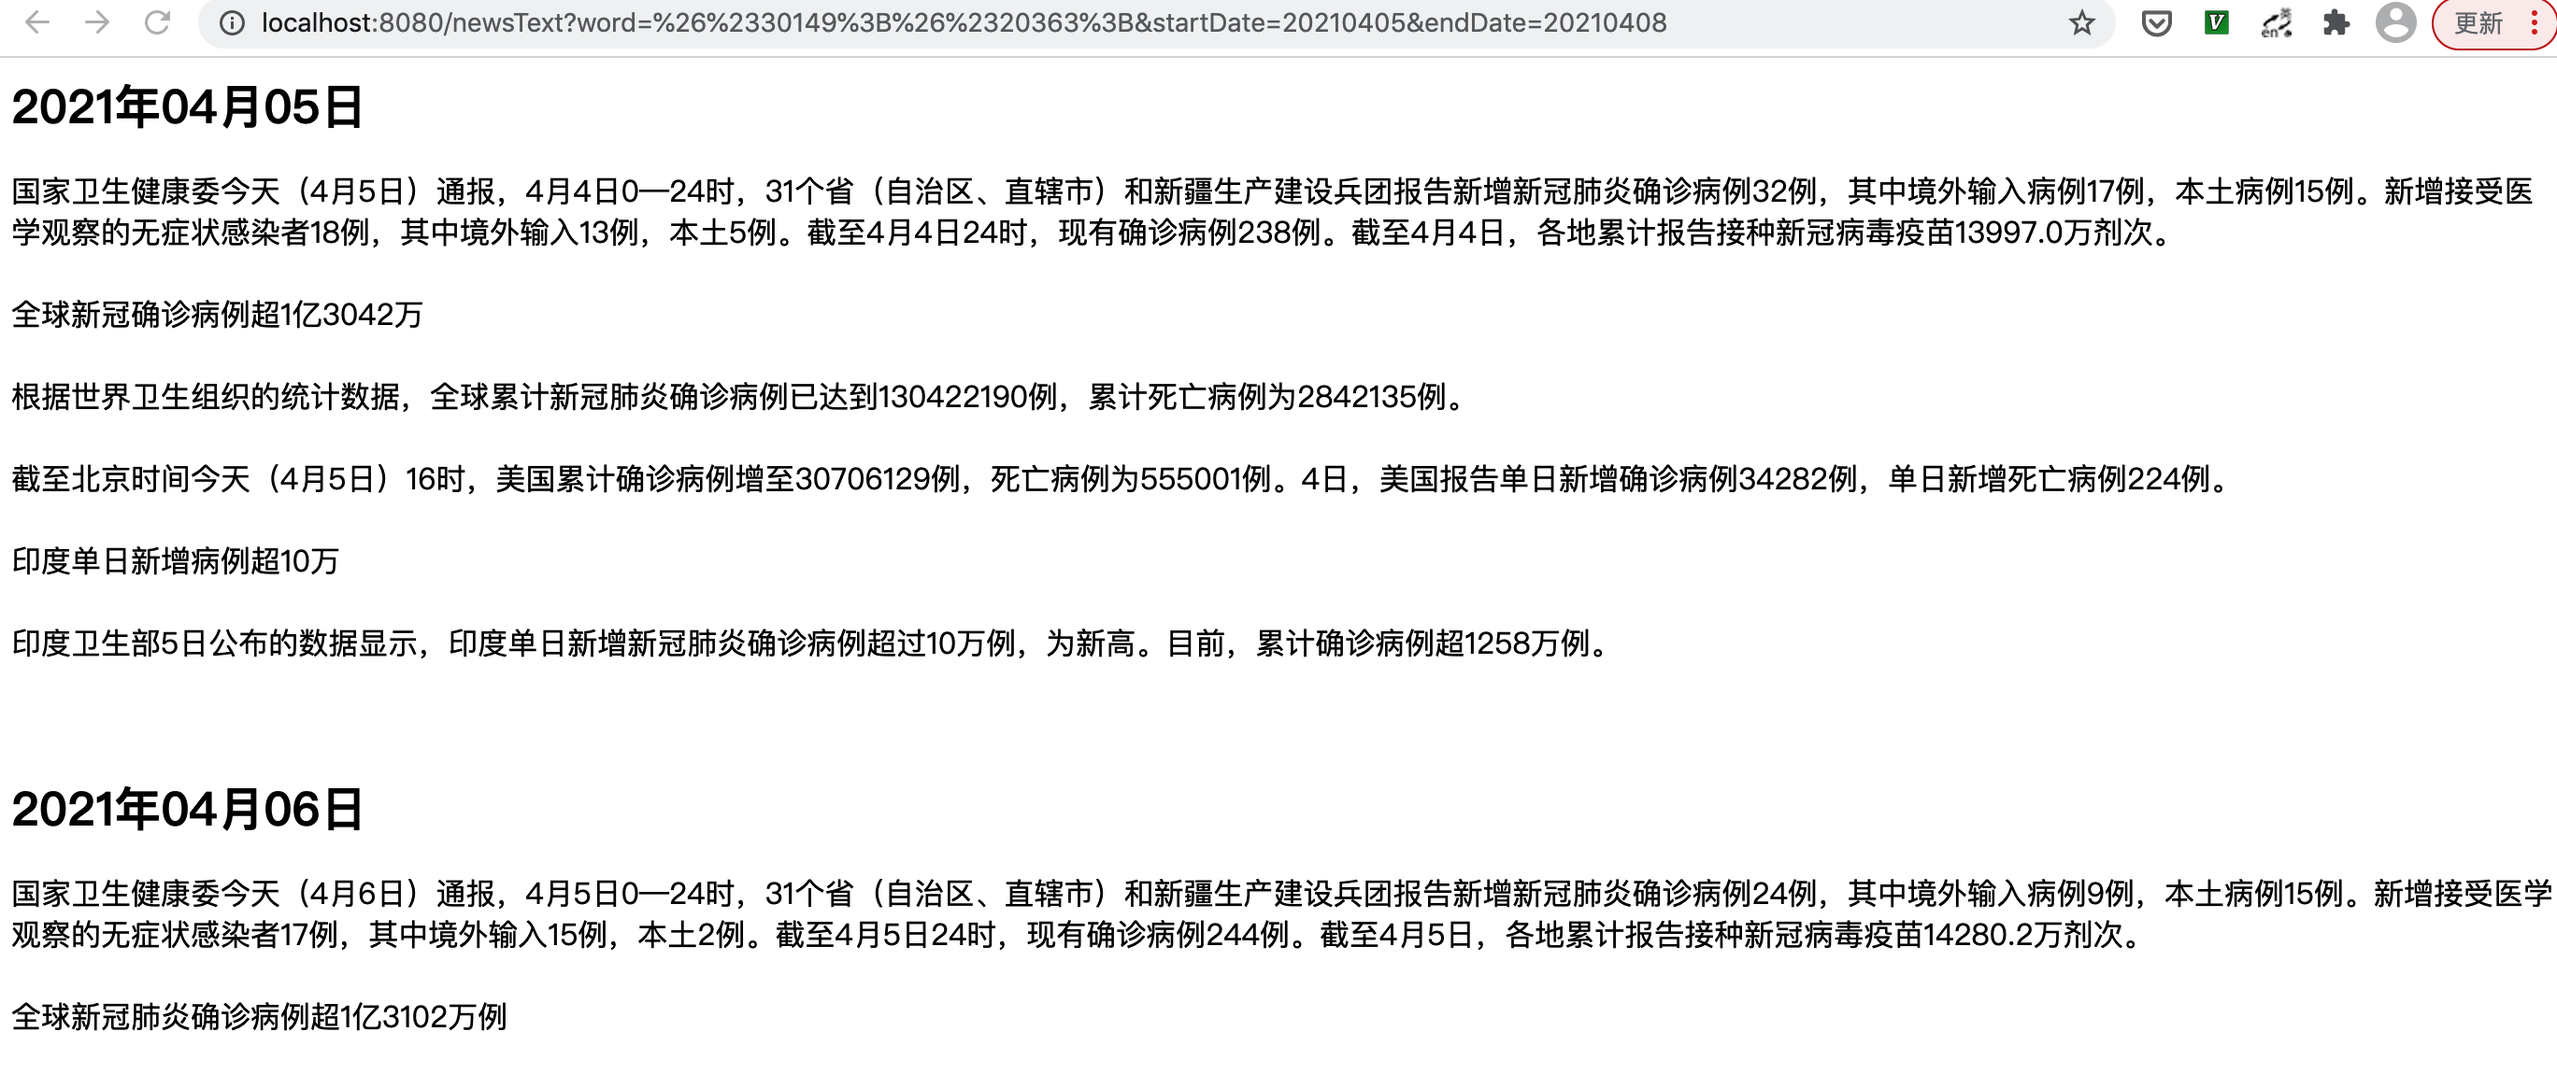
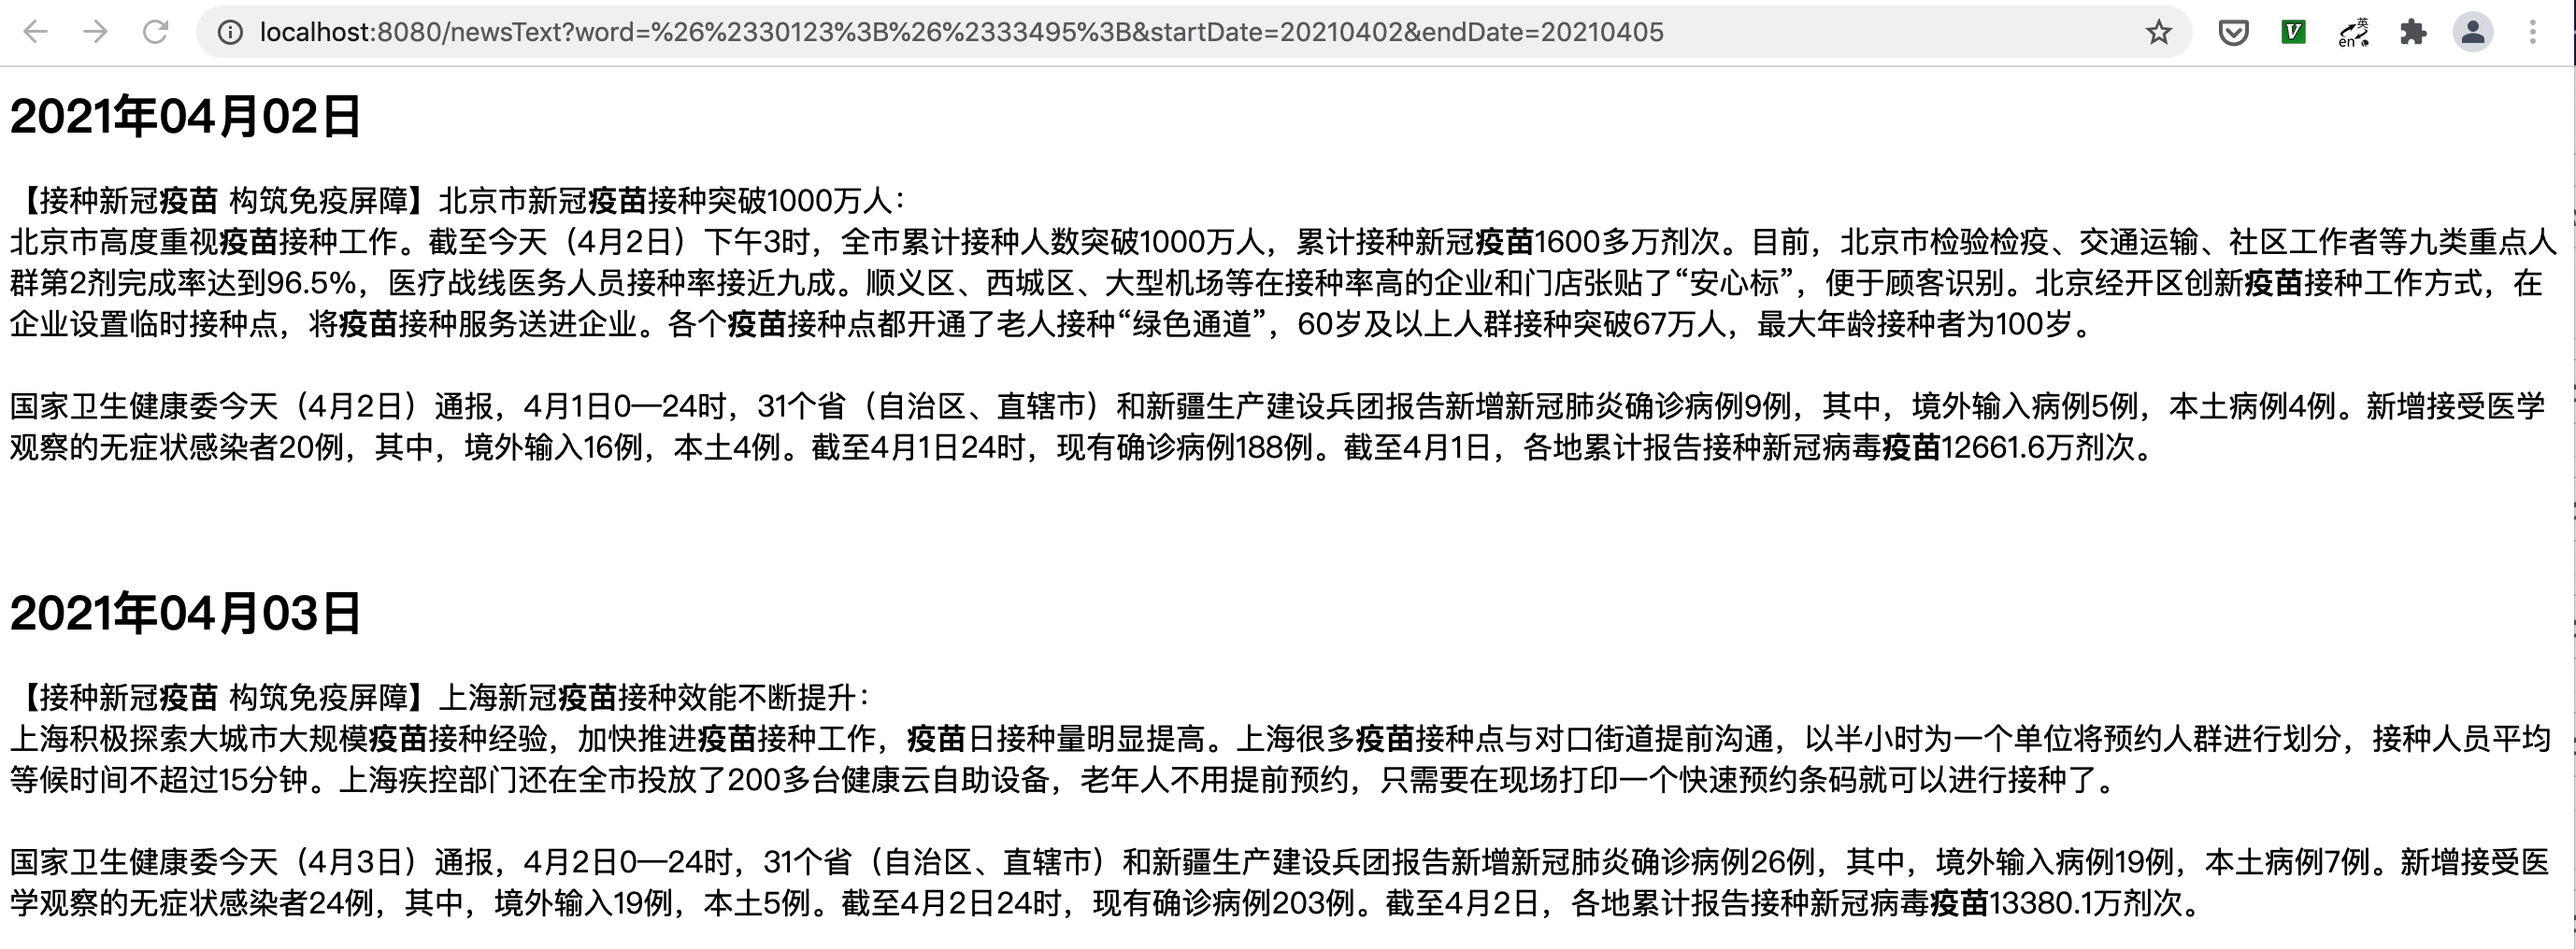
优化展示

Changed region(s): [[0.0, 0.0, 1.0, 1.0], [0.0, 0.5797, 0.6213, 0.6713]]

diff --git a/xwlb-api/src/main/resources/static/pages/news_text.html b/xwlb-api/src/main/resources/static/pages/news_text.html
@@ -1,18 +1,21 @@
-<html>
+<html lang="zh-CN">
 <script src="../js/send-request.js" charset="UTF-8"></script>
 <div id="box"></div>
 
 <script type="text/javascript">
     sent_request_sync("/news/text?" + window.location.search.substring(1), "GET", render)
     function render(data) {
-        for (let i in data) {
+        for (let d of data) {
             const box = document.getElementById("box");
             const head = document.createElement("header");
-            head.innerText = data[i].date;
+            head.innerHTML = d.date;
             head.style.fontWeight = "bold"
             head.style.fontSize = "25"
             const text = document.createElement("p");
-            text.innerText = data[i].text;
+            let text_string = d.text;
+            const word = d.word;
+            text_string = text_string.replace(/\n/g, '<br/>').replace(new RegExp(word,'g'), '<b>' + word + '</b>');
+            text.innerHTML = text_string;
             box.appendChild(head)
             box.appendChild(text);
             box.appendChild(document.createElement("br"))

diff --git a/xwlb-api/src/main/resources/static/pages/news_key_words.html b/xwlb-api/src/main/resources/static/pages/news_key_words.html
@@ -1,9 +1,9 @@
-<html>
+<html lang="zh-CN">
 <script src="../js/echarts.min.js"></script>
 <script src="../js/echarts-wordcloud.min.js"></script>
 <script src="../js/send-request.js" charset="UTF-8"></script>
 <script src="../js/wordcloud.js" charset="UTF-8"></script>
-<div id="wordCloud" style="width: 600px;height:600px;"></div>
+<div id="wordCloud" style="width: 666px;height:666px;"></div>
 <script type="text/javascript">
     initChart();
 </script>

diff --git a/xwlb-core/src/main/java/com/wrl/xwlb/services/XwlbTextService.java b/xwlb-core/src/main/java/com/wrl/xwlb/services/XwlbTextService.java
@@ -61,13 +61,19 @@ public class XwlbTextService {
     for (XwlbTextVO xwlbTextVO : xwlbTextVOS) {
       List<String> texts = Arrays.stream(xwlbTextVO.getContent().split("\n")).collect(Collectors.toList());
       StringBuilder t = new StringBuilder();
-      for (String text : texts) {
+      for (int i=0; i < texts.size(); i++) {
+        String text = texts.get(i);
         if (text.contains(word)) {
-          t.append(text).append("\n\n");
+          if (!text.endsWith("。") && i + 1 < texts.size()) {
+            t.append(text).append("：\n").append(texts.get(++i));
+          } else {
+            t.append(text);
+          }
+          t.append("\n\n");
         }
       }
       if (StringUtils.isNotBlank(t)) {
-        textVOS.add(new TextVO(ClockUtil.dateStringChinese(xwlbTextVO.getDate()), t.toString()));
+        textVOS.add(new TextVO(word, ClockUtil.dateStringChinese(xwlbTextVO.getDate()), t.toString()));
       }
     }
     return textVOS;
@@ -95,7 +101,8 @@ public class XwlbTextService {
   private List<String> getFilteredWords() {
     return Arrays.asList("今天", "今日", "近日", "累计", "重要", "目前", "一些", "一共", "基本", "一方面",
         "得以", "总计", "一直", "人们", "新闻联播", "文字版", "文字", "新闻", "主要", "内容", "以下", "详情",
-        "详细", "全文", "就是", "以及", "同时", "必须", "一个", "一道", "一条", "表示", "举行", "开展", "截至");
+        "详细", "全文", "就是", "以及", "同时", "必须", "一个", "一道", "一条", "表示", "举行", "开展", "截至",
+        "一起", "不会", "正在", "来到", "达到", "要求", "强调", "重点", "其中", "指出");
   }
   private boolean isNumber(String word) {
     return pattern.matcher(word).matches();

diff --git a/xwlb-core/src/main/java/com/wrl/xwlb/services/VO/TextVO.java b/xwlb-core/src/main/java/com/wrl/xwlb/services/VO/TextVO.java
@@ -8,6 +8,7 @@ import lombok.NoArgsConstructor;
 @AllArgsConstructor
 @Data
 public class TextVO {
+  private String word;
   private String date;
   private String text;
 }
